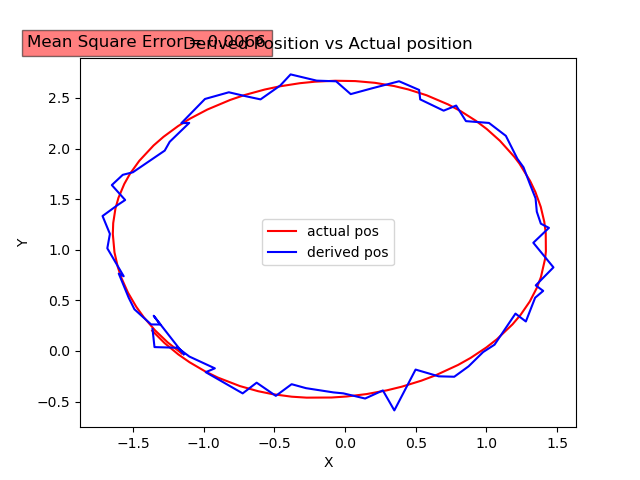
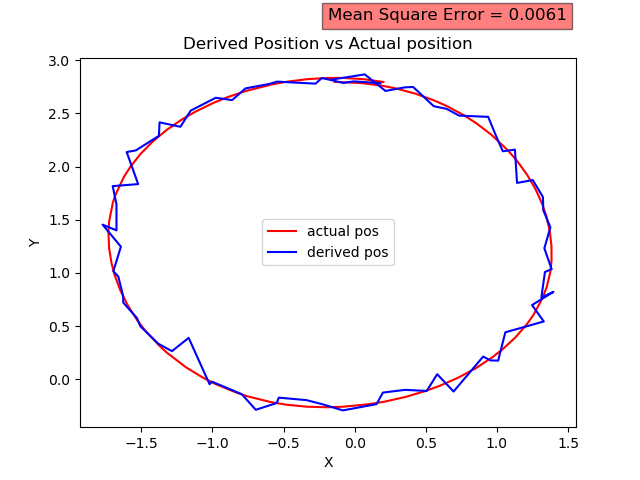
Assignment6 final commit final

diff --git a/sc649_assign_q/scripts/Triangulation.py b/sc649_assign_q/scripts/Triangulation.py
@@ -194,7 +194,9 @@ def programflow():
     plt.xlabel("X")
     plt.ylabel("Y")
     plt.title("Derived Position_landmark AB vs Actual position")
-    plt.text(1, 3, MSE_AB_text, fontsize=12, bbox=dict(facecolor='red', alpha=0.5))
+    yA=(plt.gca().get_ylim()[1])+0.35
+    xA=((plt.gca().get_xlim()[0]) + (plt.gca().get_xlim()[1]))/2
+    plt.text(xA, yA, MSE_AB_text, fontsize=12, bbox=dict(facecolor='red', alpha=0.5))
     plt.legend()
     plt.savefig('positions_AB.png')
     plt.show()
@@ -204,7 +206,9 @@ def programflow():
     plt.xlabel("X")
     plt.ylabel("Y")
     plt.title("Derived Position_landmark BC vs Actual position")
-    plt.text(1, 3, MSE_BC_text, fontsize=12, bbox=dict(facecolor='red', alpha=0.5))
+    yB=(plt.gca().get_ylim()[1])+0.35
+    xB=((plt.gca().get_xlim()[0]) + (plt.gca().get_xlim()[1]))/2
+    plt.text(xB, yB, MSE_BC_text, fontsize=12, bbox=dict(facecolor='red', alpha=0.5))
     plt.legend()
     plt.savefig('positions_BC.png')
     plt.show()
@@ -214,7 +218,9 @@ def programflow():
     plt.xlabel("X")
     plt.ylabel("Y")
     plt.title("Derived Position_landmark CA vs Actual position")
-    plt.text(1, 3, MSE_CA_text, fontsize=12, bbox=dict(facecolor='red', alpha=0.5))
+    yC=(plt.gca().get_ylim()[1])+0.35
+    xC=((plt.gca().get_xlim()[0]) + (plt.gca().get_xlim()[1]))/2
+    plt.text(xC, yC, MSE_CA_text, fontsize=12, bbox=dict(facecolor='red', alpha=0.5))
     plt.legend()
     plt.savefig('positions_CA.png')
     plt.show()

diff --git a/sc649_assign_q/scripts/Triangulation_enhanced.py b/sc649_assign_q/scripts/Triangulation_enhanced.py
@@ -172,7 +172,9 @@ def programflow():
     plt.xlabel("X")
     plt.ylabel("Y")
     plt.title("Derived Position vs Actual position")
-    plt.text(0, 0, MSE_text, fontsize=12, bbox=dict(facecolor='red', alpha=0.5))
+    yC=(plt.gca().get_ylim()[1])+0.35
+    xC=((plt.gca().get_xlim()[0]) + (plt.gca().get_xlim()[1]))/2
+    plt.text(xC, yC, MSE_text, fontsize=12, bbox=dict(facecolor='red', alpha=0.5))
     plt.legend()
     plt.savefig('positions_enhanced.png')
     plt.show()
